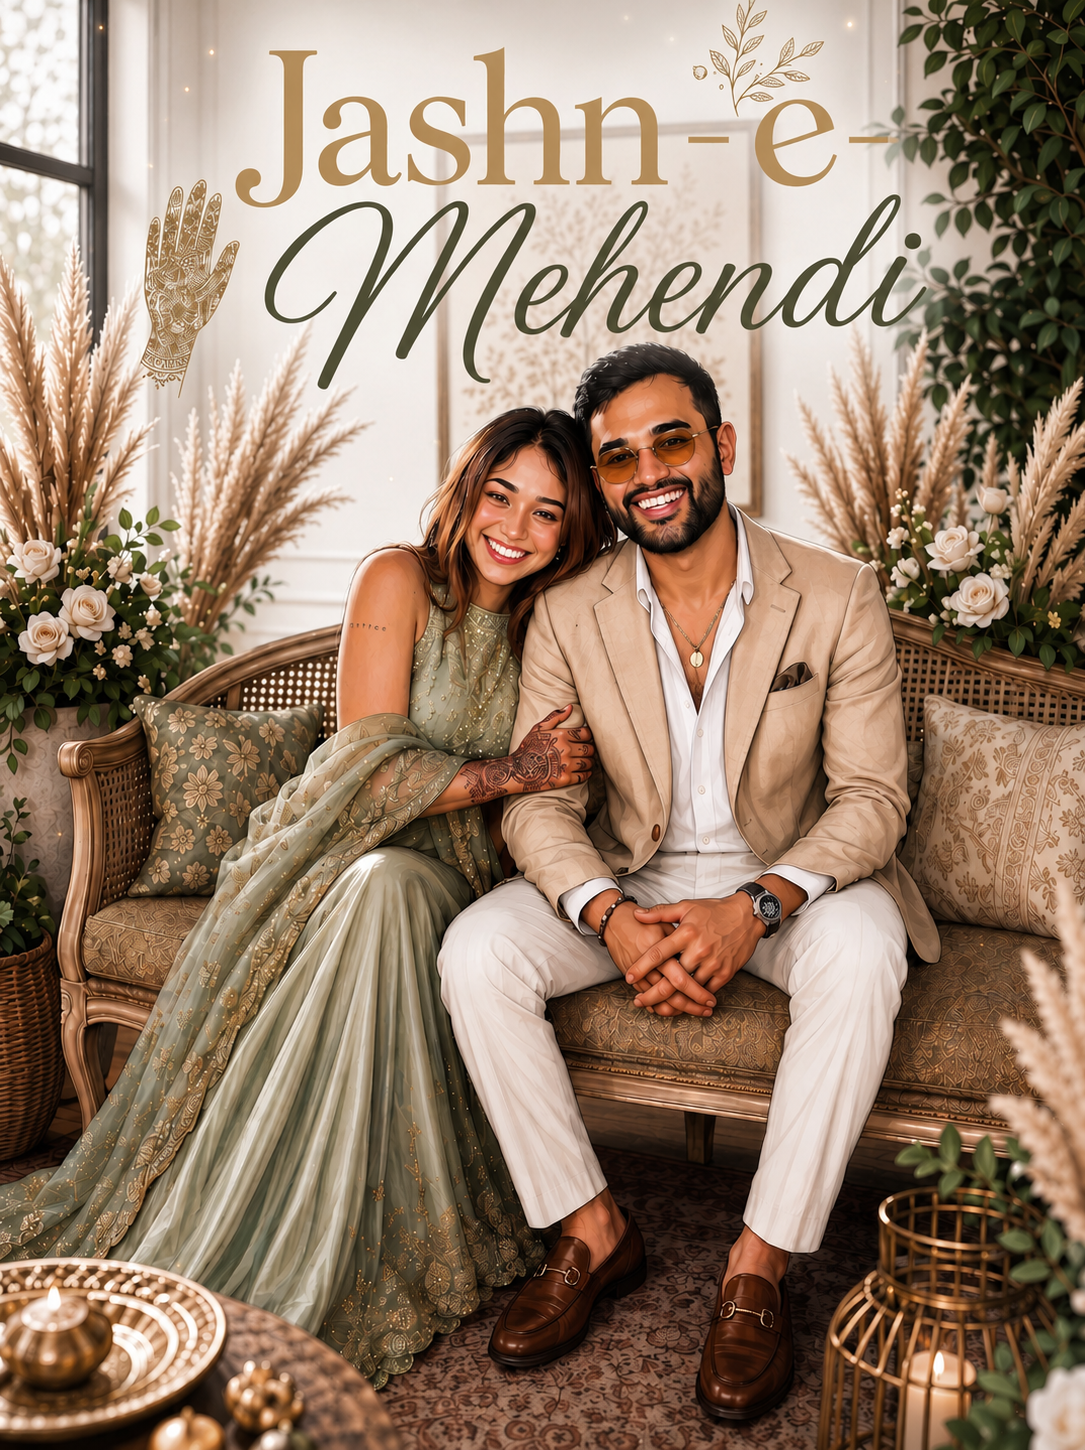
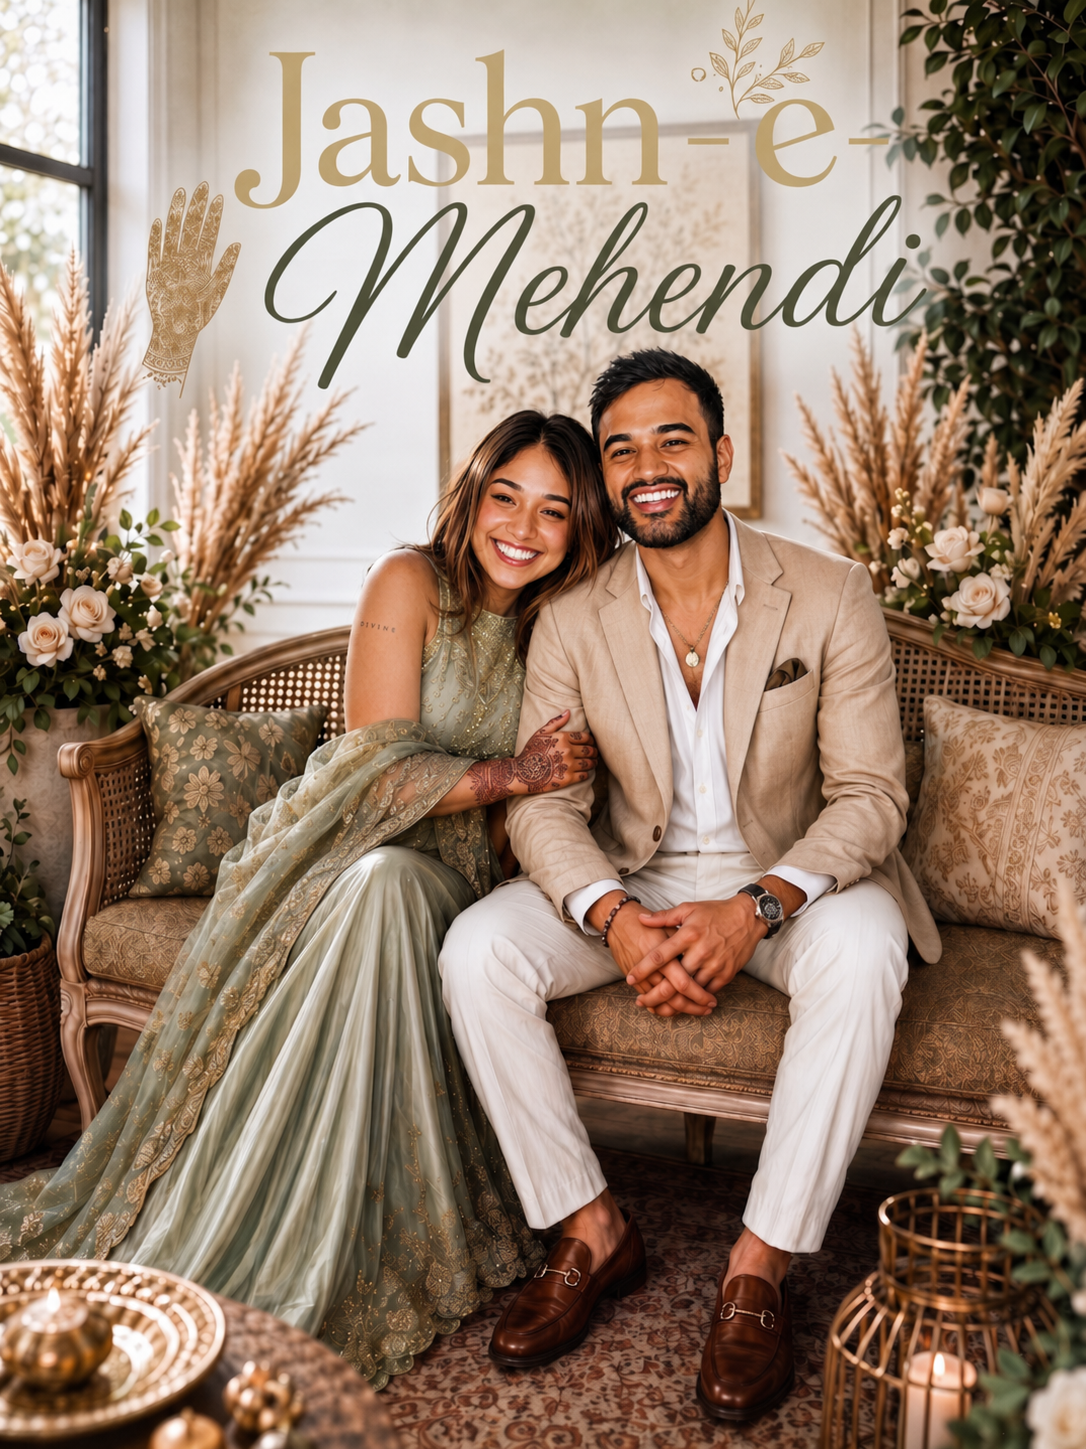
Update event images, wedding/mehendi timelines, and rename Reception to Pre Wedding Dinner

diff --git a/app/events/page.tsx b/app/events/page.tsx
@@ -12,6 +12,7 @@ interface EventType {
   date: string;
   time: string;
   timeNote?: string;
+  schedule?: { label: string; time?: string; emphasize?: boolean; note?: string }[];
   ageRestriction?: string;
   venueType?: 'Indoor' | 'Outdoor' | 'Indoor & Outdoor';
   location: string;
@@ -31,6 +32,7 @@ interface EventType {
   outfitInspoLinks?: { label: string; url: string }[];
   description: string;
   image: string;
+  imagePosition?: string;
   color: string;
   calendarEvent: {
     title: string;
@@ -46,8 +48,8 @@ const events: EventType[] = [
     id: 1,
     name: 'The Prequel',
     date: 'December 5th',
-    time: '9:00 PM - 12:00 AM',
-    timeNote: 'Arrival: 8:30 - 9 PM. Account for Bangalore traffic & arrive on time!',
+    time: '8:00 PM - 11:00 PM',
+    timeNote: 'Arrival: 7:30 - 8 PM. Account for Bangalore traffic & arrive on time!',
     ageRestriction: '21+ only',
     venueType: 'Indoor',
     location: 'Gatsby, Bangalore',
@@ -61,15 +63,15 @@ const events: EventType[] = [
     color: '#7BA3B5',
     calendarEvent: {
       title: 'Deepika & Harsh - The Prequel (Cocktail)',
-      description: 'Cocktail celebration for Deepika & Harsh wedding. Arrival window: 8:30-9PM. Doors close after 9PM.',
+      description: 'Cocktail celebration for Deepika & Harsh wedding. Arrival window: 7:30-8PM. Doors close after 8PM.',
       location: 'Gatsby, Survey No.2&3, Bannerghatta Rd, Arekere, Bengaluru, Karnataka 560076',
-      startDate: '2025-12-05T20:30:00',
-      endDate: '2025-12-05T23:59:00',
+      startDate: '2025-12-05T19:30:00',
+      endDate: '2025-12-05T23:00:00',
     },
   },
   {
     id: 2,
-    name: 'The Reception',
+    name: 'Pre Wedding Dinner',
     date: 'December 6th',
     time: '7:00 PM onwards',
     venueType: 'Outdoor',
@@ -77,13 +79,14 @@ const events: EventType[] = [
     address: 'South End Circle, Jayanagar, Bengaluru',
     mapUrl: 'https://maps.google.com/?q=La+Marvella+South+End+Circle+Jayanagar+Bengaluru',
     dressCode: 'Indian Formal / Reception Glam ✨',
-    dressCodeNote: 'Think elegant sarees, statement lehengas, bandhgalas & refined evening looks',
+    dressCodeNote: 'Think elegant sarees, statement lehengas, indo western outfits, bandhgalas & refined evening looks',
     description: 'An elegant evening of dinner, dancing, and celebrating our new journey together.',
-    image: '/images/events/reception_main.png',
+    image: '/images/events/pre_wedding_dinner.png',
+    imagePosition: 'top',
     color: '#C9A86C',
     calendarEvent: {
-      title: 'Deepika & Harsh - Reception',
-      description: 'Wedding reception for Deepika & Harsh',
+      title: 'Deepika & Harsh - Pre Wedding Dinner',
+      description: 'Pre wedding dinner for Deepika & Harsh',
       location: 'La Marvella, #1 South End Circle, 14th Cross Road, Jayanagar, Bengaluru, Karnataka 560011',
       startDate: '2025-12-06T19:00:00',
       endDate: '2025-12-06T23:59:00',
@@ -93,8 +96,13 @@ const events: EventType[] = [
     id: 3,
     name: 'Jashn-e-Mehendi',
     date: 'December 12th',
-    time: "Groom's side 10 AM–2 PM · Bride's side 2 PM onwards",
+    time: '10:30 AM – 6:30 PM onwards',
     timeNote: 'Come early — the earlier, the better!',
+    schedule: [
+      { label: 'Mehendi', time: '10:30 AM onwards', emphasize: true },
+      { label: 'Ring Ceremony', time: '6:00 PM onwards', note: 'Outfit: your choice' },
+      { label: 'Mayra', time: '6:30 PM onwards' },
+    ],
     venueType: 'Indoor',
     location: 'Stadel, Kolkata',
     address: 'Salt Lake Stadium Metro Station, Kolkata',
@@ -145,16 +153,25 @@ const events: EventType[] = [
   },
   {
     id: 5,
-    name: 'Wedding',
+    name: 'Vivaha Utsavam',
     date: 'December 13th',
-    time: '6:00 PM onwards',
+    time: '4:30 PM – 1:00 AM (14th Dec)',
+    schedule: [
+      { label: 'Baraat', time: '4:30 PM onwards', emphasize: true },
+      { label: 'Varmala' },
+      { label: 'Dinner' },
+      { label: 'Pheras' },
+      { label: 'Vidai', time: 'By 1:00 AM, 14th Dec', emphasize: true },
+    ],
     venueType: 'Indoor & Outdoor',
-    location: 'Venue TBD',
-    address: 'Kolkata, India',
-    dressCode: 'Formal Indian Attire',
+    location: 'Stadel, Kolkata',
+    address: 'Salt Lake Stadium Metro Station, Kolkata',
+    mapUrl: 'https://maps.google.com/?q=Stadel+Salt+Lake+Stadium+Kolkata',
+    dressCode: 'Lehengas & Indo-Western',
+    dressCodeNote: 'Think North Indian wedding attires',
     description: 'The moment we say "I do" - surrounded by family, friends, and endless love.',
-    image: '/images/first-meeting.png',
-    color: '#E8D5D3',
+    image: '/images/events/wedding_main.png',
+    color: '#A85C6E',
     calendarEvent: {
       title: 'Deepika & Harsh - Wedding',
       description: 'Wedding ceremony for Deepika & Harsh',
@@ -212,6 +229,7 @@ function EventCard({ event, index }: { event: EventType; index: number }) {
               alt={event.name}
               fill
               className="object-cover"
+              style={event.imagePosition ? { objectPosition: event.imagePosition } : undefined}
             />
             {/* Gradient overlay */}
             <div
@@ -287,6 +305,46 @@ function EventCard({ event, index }: { event: EventType; index: number }) {
                   <p className="font-medium text-sm" style={{ color: '#3D3D3D' }}>{event.time}</p>
                   {event.timeNote && (
                     <p className="text-xs mt-0.5 italic" style={{ color: event.color }}>{event.timeNote}</p>
+                  )}
+                  {event.schedule && (
+                    <div className="mt-3 relative pl-4">
+                      <div
+                        className="absolute left-[5px] top-1.5 bottom-1.5 w-px"
+                        style={{ backgroundColor: `${event.color}40` }}
+                      />
+                      <div className="space-y-2.5">
+                        {event.schedule.map((step, i) => (
+                          <div key={i} className="relative">
+                            <div
+                              className={`absolute top-1 rounded-full border-2 ${
+                                step.emphasize ? '-left-[18px] w-3.5 h-3.5' : '-left-4 w-2.5 h-2.5'
+                              }`}
+                              style={{
+                                backgroundColor: step.emphasize ? event.color : '#FFFEF9',
+                                borderColor: event.color,
+                              }}
+                            />
+                            <p
+                              className={step.emphasize ? 'font-semibold text-sm' : 'font-medium text-xs'}
+                              style={{ color: step.emphasize ? event.color : '#3D3D3D' }}
+                            >
+                              {step.label}
+                            </p>
+                            {step.time && (
+                              <p
+                                className={step.emphasize ? 'text-xs font-medium' : 'text-[11px]'}
+                                style={{ color: event.color }}
+                              >
+                                {step.time}
+                              </p>
+                            )}
+                            {step.note && (
+                              <p className="text-[11px] italic" style={{ color: '#9B9B9B' }}>{step.note}</p>
+                            )}
+                          </div>
+                        ))}
+                      </div>
+                    </div>
                   )}
                   {event.ageRestriction && (
                     <span

diff --git a/app/travel/page.tsx b/app/travel/page.tsx
@@ -48,8 +48,8 @@ const bangaloreHotels = [
   {
     name: 'La Marvella, Jayanagar',
     description:
-      'Our Reception venue — stay where the party is.',
-    distance: 'At the Reception venue',
+      'Our Pre Wedding Dinner venue — stay where the party is.',
+    distance: 'At the Pre Wedding Dinner venue',
     price: '$$',
     url: 'https://www.lamarvellahotels.com/',
   },

diff --git a/components/RSVPForm.tsx b/components/RSVPForm.tsx
@@ -106,7 +106,7 @@ const EVENTS = {
     label: 'All Bangalore Events',
     events: [
       { id: 'cocktail', label: 'Cocktail Party' },
-      { id: 'reception', label: 'Reception' },
+      { id: 'reception', label: 'Pre Wedding Dinner' },
     ],
   },
   kolkata: {
